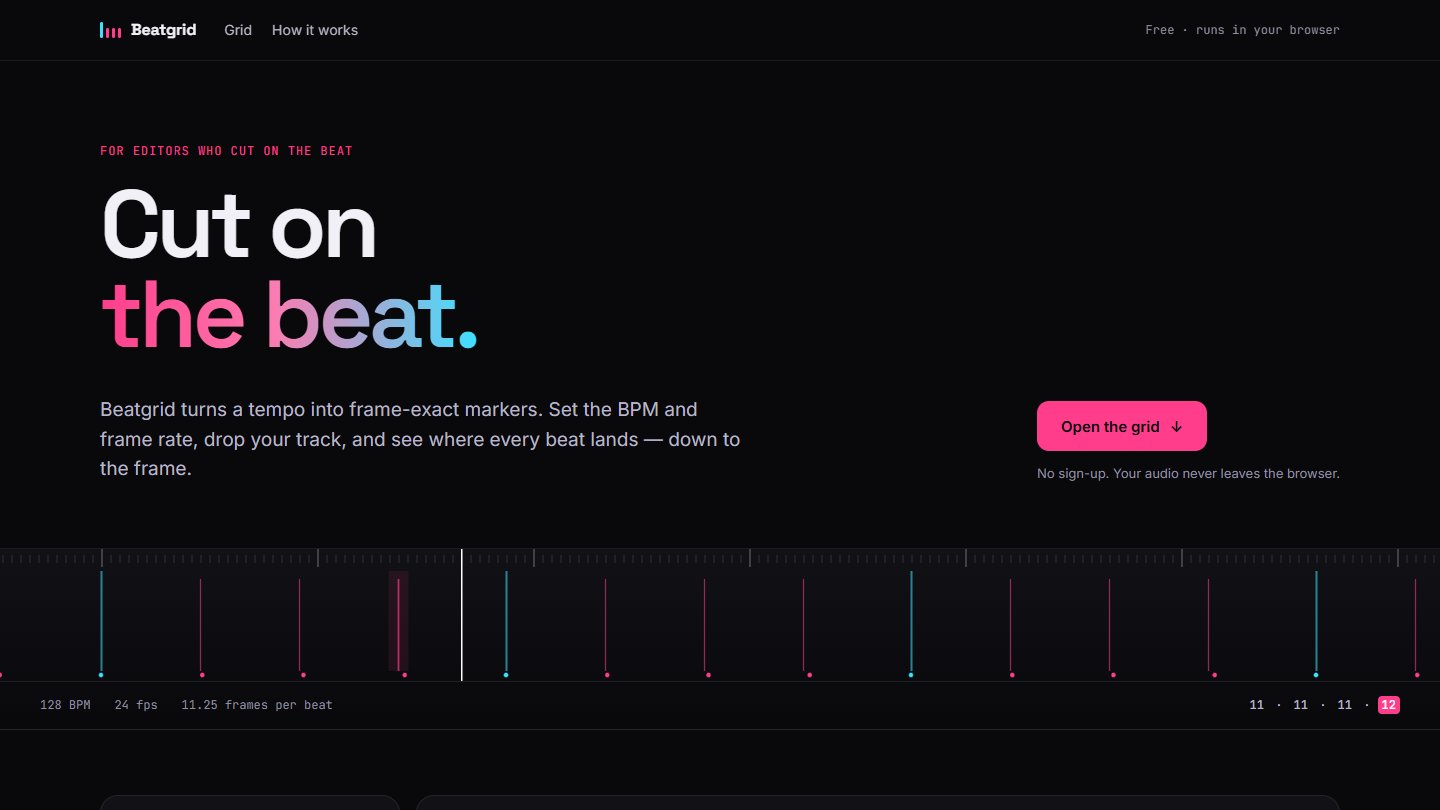
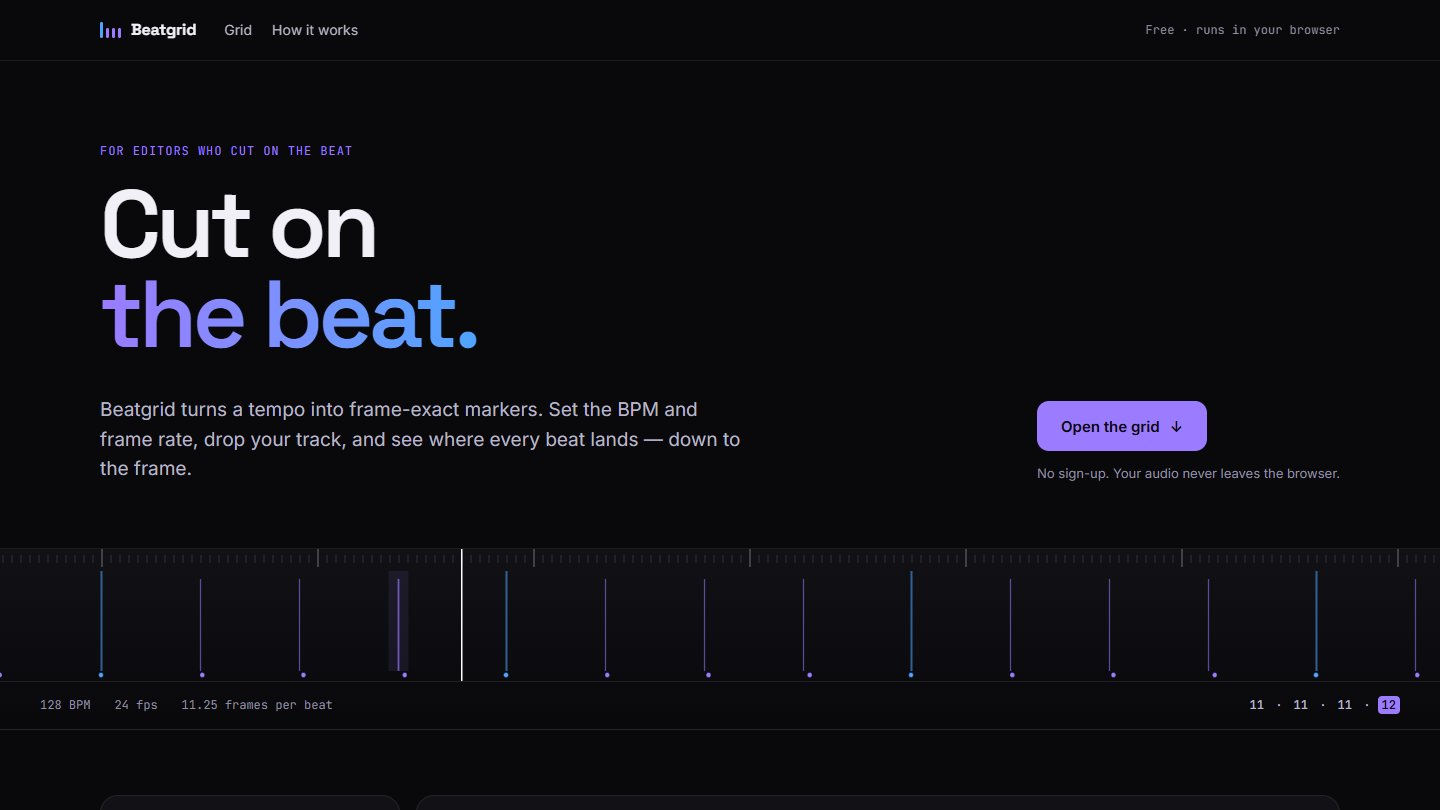
Beatgrid в холодной палитре: пересобран, новые кадры в карточке

diff --git a/public/p/beatgrid/assets/index-CwXp041E.js b/public/p/beatgrid/assets/index-CwXp041E.js
@@ -1,0 +1,10 @@
+(function(){let e=document.createElement(`link`).relList;if(e&&e.supports&&e.supports(`modulepreload`))return;for(let e of document.querySelectorAll(`link[rel="modulepreload"]`))n(e);new MutationObserver(e=>{for(let t of e)if(t.type===`childList`)for(let e of t.addedNodes)e.tagName===`LINK`&&e.rel===`modulepreload`&&n(e)}).observe(document,{childList:!0,subtree:!0});function t(e){let t={};return e.integrity&&(t.integrity=e.integrity),e.referrerPolicy&&(t.referrerPolicy=e.referrerPolicy),t.credentials=e.crossOrigin===`use-credentials`?`include`:e.crossOrigin===`anonymous`?`omit`:`same-origin`,t}function n(e){if(e.ep)return;e.ep=!0;let n=t(e);fetch(e.href,n)}})();var e=1e-9,t=t=>Math.floor(t+e),n=[{id:`23.976`,fps:24e3/1001,base:24},{id:`24`,fps:24,base:24},{id:`25`,fps:25,base:25},{id:`29.97`,fps:3e4/1001,base:30},{id:`30`,fps:30,base:30},{id:`50`,fps:50,base:50},{id:`59.94`,fps:6e4/1001,base:60},{id:`60`,fps:60,base:60}],r=e=>n.find(t=>t.id===e)||n[1];function i({bpm:e,fps:t,step:n,beatsPerBar:r}){let i=t*60/e;return n===`bar`?i*r:n===`half`?i/2:i}function a({bpm:e,fps:n,offset:r,step:a,beatsPerBar:o,total:s}){let c=i({bpm:e,fps:n,step:a,beatsPerBar:o}),l=a===`half`?.5:a===`bar`?o:1,u=[];for(let e=0;;e++){let n=r+e*c;if(n>s||e>2e4)break;let i=e*l,a=Math.floor(i+1e-9);u.push({k:e,exact:n,frame:t(n),off:n-t(n),bar:Math.floor(a/o)+1,beat:a%o+1,half:i-a>.25,down:a%o===0&&i-a<.25})}return u}function o(e,t=64){for(let n=1;n<=t;n++){let t=n*e;if(Math.abs(t-Math.round(t))<1e-6)return n}return null}function s(e){let n=o(e,16);if(!n)return null;let r=[];for(let i=0;i<n;i++)r.push(t((i+1)*e)-t(i*e));return r}function c(e,t){let n=e=>String(e).padStart(2,`0`),r=Math.max(0,e);return`${n(Math.floor(r/(t*3600)))}:${n(Math.floor(r/(t*60))%60)}:${n(Math.floor(r/t)%60)}:${n(r%t)}`}var l=e=>String(Math.round(e*100)/100),u=null,d=()=>u??=new AudioContext;async function f(e){let t=await e.arrayBuffer();return d().decodeAudioData(t)}function p(e,t=4e3){let n=e.getChannelData(0),r=Math.max(1,Math.floor(n.length/t)),i=new Float32Array(t*2);for(let e=0;e<t;e++){let t=0,a=0,o=e*r,s=Math.min(o+r,n.length);for(let e=o;e<s;e+=4){let r=n[e];r<t?t=r:r>a&&(a=r)}i[e*2]=t,i[e*2+1]=a}return i}function m(e){let t=e.sampleRate,n=e.getChannelData(0),r=Math.min(n.length,t*90),i=Math.floor(r/512),a=new Float32Array(i),o=0;for(let e=0;e<i;e++){let t=0;for(let r=e*512;r<(e+1)*512;r++)t+=n[r]*n[r];t=Math.sqrt(t/512),a[e]=Math.max(0,t-o),o=t}let s=512/t,c=0,l=0,u=Math.floor(60/200/s),d=Math.ceil(1/s);for(let e=u;e<=d;e++){let t=0;for(let n=0;n+e<i;n++)t+=a[n]*a[n+e];t/=i-e,t>c&&(c=t,l=e)}let f=e=>{let t=0;for(let n=0;n+e<i;n++)t+=a[n]*a[n+e];return t/(i-e)},p=f(l-1),m=f(l),h=f(l+1),g=(p-h)/(2*(p-2*m+h)||1),_=60/((l+(Number.isFinite(g)?g:0))*s);for(;_<80;)_*=2;for(;_>170;)_/=2;Math.abs(_-Math.round(_))<.35&&(_=Math.round(_));let v=60/_/s,y=0,b=-1;for(let e=0;e<v;e+=.25){let t=0;for(let n=e;n<i;n+=v)t+=a[Math.round(n)]||0;t>b&&(b=t,y=e)}return{bpm:Math.round(_*10)/10,offsetSec:(y+.5)*s}}function h(){let e=null,t=null,n=0,r=0,i=!1,a=()=>i?r+(d().currentTime-n):r;function o(){i&&(r=a(),i=!1,e?.stop(),e=null,clearInterval(t?.timer),t=null)}function s(t,n){let a=d();a.resume(),e=a.createBufferSource(),e.buffer=t,e.connect(a.destination),e.start(0,Math.max(0,n)),e.onended=()=>{e&&(i=!1,r=0)}}function c(e,n){let r=d();r.resume();let i=r.currentTime,a=Math.ceil((n-e.offsetSec)/e.beatSec-1e-9),o=()=>{for(;;){let t=e.offsetSec+a*e.beatSec,o=i+(t-n);if(o>r.currentTime+.12)break;o>=r.currentTime-.01&&g(r,o,a%e.beatsPerBar===0),a++}};o(),t={timer:setInterval(o,25)}}return{get playing(){return i},time:a,seek(e){let t=i;return o(),r=Math.max(0,e),t},play({buffer:e,grid:t}){i||(n=d().currentTime,i=!0,e?s(e,r):c(t,r))},stop:o}}function g(e,t,n){let r=e.createOscillator(),i=e.createGain();r.frequency.value=n?1760:1180,i.gain.setValueAtTime(1e-4,t),i.gain.exponentialRampToValueAtTime(n?.5:.28,t+.002),i.gain.exponentialRampToValueAtTime(1e-4,t+.06),r.connect(i).connect(e.destination),r.start(t),r.stop(t+.08)}var _={bg:`#0E0E12`,wave:`rgba(236,232,255,.16)`,tick:`rgba(236,232,255,.14)`,sec:`rgba(236,232,255,.32)`,label:`rgba(236,232,255,.5)`,beat:`#9B7BFF`,half:`rgba(155,123,255,.35)`,down:`#4FA3FF`,head:`#FFFFFF`};function v(e){let t=e.getContext(`2d`),n=0,r=0,i=1;function a(){i=Math.min(devicePixelRatio||1,2),n=e.clientWidth,r=e.clientHeight,e.width=Math.round(n*i),e.height=Math.round(r*i)}function o(e){n||a(),t.setTransform(i,0,0,i,0,0),t.fillStyle=_.bg,t.fillRect(0,0,n,r);let o=t=>(t-e.viewStart)*e.ppf,s=e.viewStart+n/e.ppf,c=r-8,l=(26+c)/2;if(e.peaks){let r=e.peaks.length/2;t.fillStyle=_.wave;for(let i=0;i<n;i++){let n=(e.viewStart+i/e.ppf)/e.fps,a=Math.floor(n/e.duration*r);if(a<0||a>=r)continue;let o=e.peaks[a*2],s=e.peaks[a*2+1],u=(c-26)/2*.92;t.fillRect(i,l-s*u,1,Math.max(1,(s-o)*u))}}t.font=`10px "JetBrains Mono", ui-monospace, monospace`,t.textBaseline=`top`;let u=Math.max(0,Math.floor(e.viewStart));if(e.ppf>=4){t.fillStyle=_.tick;for(let e=u;e<=s;e++)t.fillRect(Math.round(o(e)),20,1,5)}let d=e.ppf*e.fps<60?Math.ceil(60/(e.ppf*e.fps)):1;for(let n=Math.floor(u/e.fps/d)*d;n*e.fps<=s;n+=d){let r=Math.round(n*e.fps),i=Math.round(o(r));t.fillStyle=_.sec,t.fillRect(i,14,1,11),t.fillStyle=_.label,t.fillText(e.label(r),i+4,6)}for(let n of e.markers){if(n.exact<e.viewStart-2||n.exact>s+2)continue;let r=Math.round(o(n.frame))+.5,i=n.down?_.down:n.half?_.half:_.beat;t.strokeStyle=i,t.lineWidth=n.down?2:1,t.beginPath(),t.moveTo(r,n.down?26:n.half?l-14:36),t.lineTo(r,c),t.stroke(),!n.half&&e.ppf>=3&&(t.fillStyle=i,t.beginPath(),t.arc(o(n.exact),c-4,2,0,Math.PI*2),t.fill()),n.down&&e.ppf*e.stepLen*(e.step===`bar`?1:e.beatsPerBar)>34&&(t.fillStyle=_.down,t.fillText(String(n.bar),r+4,28))}let f=o(e.head);f>=0&&f<=n&&(t.fillStyle=_.head,t.fillRect(Math.round(f),0,1.5,r),t.beginPath(),t.moveTo(f-5,0),t.lineTo(f+6,0),t.lineTo(f+.5,7),t.fill())}return{draw:o,resize:a,width:()=>n||e.clientWidth}}var y=24,b=128,x=4,S=1440/b,C=9;function w(e){let t=document.querySelector(`[data-ruler]`),n=[...document.querySelectorAll(`[data-pat] b`)];if(!t)return;let r=t.getContext(`2d`),i=0,a=0,o=1,s=()=>{o=Math.min(devicePixelRatio||1,2),i=t.clientWidth,a=t.clientHeight,t.width=i*o,t.height=a*o};s(),addEventListener(`resize`,()=>{s(),e&&c(40)});let c=e=>{r.setTransform(o,0,0,o,0,0),r.clearRect(0,0,i,a);let t=Math.round(i*.32),s=e-t/C,c=e+(i-t)/C,l=n=>t+(n-e)*C;for(let e=Math.ceil(s);e<=c;e++){let t=Math.round(l(e))+.5,n=e%y===0;r.fillStyle=n?`rgba(242,240,247,.42)`:`rgba(242,240,247,.14)`,r.fillRect(t,n?0:6,1,n?18:8)}let u=Math.floor(s/S),d=Math.ceil(c/S);for(let t=u;t<=d;t++){let n=t*S,i=Math.floor(n+1e-9),o=Math.round(l(i))+.5,s=(t%x+x)%x===0,c=(e-n)/y,u=c>=0&&c<.35?1-c/.35:0;r.strokeStyle=s?`#4FA3FF`:`#9B7BFF`,r.globalAlpha=.55+.45*u,r.lineWidth=(s?2:1.25)+u*2,r.beginPath(),r.moveTo(o,s?22:30),r.lineTo(o,a-10),r.stroke(),u&&(r.globalAlpha=u*.35,r.fillStyle=s?`#4FA3FF`:`#9B7BFF`,r.fillRect(o-10,22,20,a-32)),r.globalAlpha=1,r.fillStyle=s?`#4FA3FF`:`#9B7BFF`,r.beginPath(),r.arc(l(n),a-6,2.2,0,Math.PI*2),r.fill()}r.fillStyle=`#fff`,r.fillRect(t,0,1.5,a);let f=Math.floor(e/S);n.forEach((e,t)=>e.classList.toggle(`is-on`,t===(f%4+4)%4))};if(e){c(40);return}let l=!0,u=0,d=0,f=e=>{u||=e,c((e-u)/1e3*y+6),l&&(d=requestAnimationFrame(f))};new IntersectionObserver(([e])=>{l=e.isIntersecting,cancelAnimationFrame(d),l&&(d=requestAnimationFrame(f))}).observe(t)}var T=matchMedia(`(prefers-reduced-motion: reduce)`).matches;w(T);var E=e=>document.querySelector(e),D=E(`[data-controls]`),O=v(E(`[data-timeline]`)),k=h(),A={bpm:128,rateId:`24`,step:`beat`,bpb:4,offset:0,buffer:null,peaks:null,duration:0,name:``,viewStart:0,ppf:6,head:0,showAll:!1};function j(){let e=r(A.rateId),t=i({bpm:A.bpm,fps:e.fps,step:`beat`,beatsPerBar:A.bpb}),n=i({bpm:A.bpm,fps:e.fps,step:A.step,beatsPerBar:A.bpb}),o=A.buffer?A.duration*e.fps:A.offset+t*A.bpb*64;return{r:e,beatLen:t,stepLen:n,total:o,list:a({bpm:A.bpm,fps:e.fps,offset:A.offset,step:A.step,beatsPerBar:A.bpb,total:o})}}function M(){let e=j();N(e),F(e),I(e)}function N({beatLen:e}){let t=(e,t)=>{E(`[data-f="${e}"]`).textContent=t};t(`beat`,l(e)),t(`bar`,l(e*A.bpb));let n=o(e);t(`period`,n===1?`every beat`:n?`every ${n} beats`:`never exactly`);let r=s(e);t(`pattern`,r&&r.length>1?r.join(` · `):r?`${r[0]} every time`:`varies — see the list`)}var P=64;function F({r:e,list:t}){let n=A.showAll?t:t.slice(0,P);E(`[data-rows]`).innerHTML=n.map(t=>`
+    <tr class="${t.down?`is-down`:t.half?`is-half`:``}">
+      <td>${t.k+1}</td>
+      <td>${t.bar}.${t.beat}${t.half?`½`:``}</td>
+      <td>${t.frame}</td>
+      <td>${c(t.frame,e.base)}</td>
+      <td class="${t.off>.001?`is-off`:``}">${t.off>.001?`+`+l(t.off)+` f`:`on frame`}</td>
+    </tr>`).join(``);let r=E(`[data-more]`);r.hidden=t.length<=P,r.textContent=A.showAll?`Show fewer`:`Show all ${t.length} markers`}function I(e=j()){let t=O.width()/A.ppf;A.viewStart=Math.max(0,Math.min(A.viewStart,Math.max(0,e.total-t))),O.draw({viewStart:A.viewStart,ppf:A.ppf,fps:e.r.fps,markers:e.list,head:A.head,stepLen:e.stepLen,step:A.step,beatsPerBar:A.bpb,peaks:A.peaks,duration:A.duration,label:t=>c(t,e.r.base)}),E(`[data-tc]`).textContent=c(Math.floor(A.head),e.r.base);let n=E(`[data-scroll]`),r=e.total-t;n.disabled=r<=0,n.value=r>0?Math.round(A.viewStart/r*1e3):0}var L=E(`[data-fps]`);L.innerHTML=n.map(e=>`<option value="${e.id}">${e.id} fps</option>`).join(``),L.value=A.rateId,D.addEventListener(`input`,e=>{let t=e.target;if(t.name===`bpm`){let e=parseFloat(t.value);e>=40&&e<=300&&(A.bpm=e)}if(t.name===`fps`){let e=r(A.rateId).fps;A.rateId=t.value,R(e)}if(t.name===`step`&&(A.step=t.value),t.name===`bpb`&&(A.bpb=Number(t.value)),t.name===`offset`){let e=parseFloat(t.value);e>=0&&(A.offset=e)}M()});function R(e){let t=r(A.rateId).fps/e;A.offset=Math.round(A.offset*t*100)/100,A.head*=t,A.viewStart*=t,E(`#offset`).value=A.offset}var z=e=>{A.bpm=Math.min(300,Math.max(40,Math.round(e*10)/10)),E(`#bpm`).value=A.bpm,M()};document.querySelectorAll(`[data-nudge]`).forEach(e=>e.addEventListener(`click`,t=>{z(A.bpm+Number(e.dataset.nudge)*(t.shiftKey?.1:1))}));var B=[];function V(){let e=performance.now();B.length&&e-B[B.length-1]>2e3&&(B=[]),B.push(e),B=B.slice(-9);let t=E(`[data-tap]`);t.classList.remove(`is-hit`),t.offsetWidth,t.classList.add(`is-hit`),B.length<2?E(`[data-tap-hint]`).textContent=`Keep tapping…`:(z(6e4/((B[B.length-1]-B[0])/(B.length-1))),E(`[data-tap-hint]`).textContent=`${B.length} taps · ${l(A.bpm)} BPM`)}E(`[data-tap]`).addEventListener(`click`,V),E(`[data-use-head]`).addEventListener(`click`,()=>{A.offset=Math.round(A.head*100)/100,E(`#offset`).value=A.offset,M()}),E(`[data-more]`).addEventListener(`click`,()=>{A.showAll=!A.showAll,M()});var H=E(`[data-drop]`),U=E(`[data-file]`);[`dragenter`,`dragover`].forEach(e=>H.addEventListener(e,e=>{e.preventDefault(),H.classList.add(`is-over`)})),[`dragleave`,`drop`].forEach(e=>H.addEventListener(e,()=>H.classList.remove(`is-over`))),H.addEventListener(`drop`,e=>{e.preventDefault();let t=e.dataTransfer.files[0];t&&W(t)}),U.addEventListener(`change`,()=>{U.files[0]&&W(U.files[0])});async function W(e){J(),E(`[data-drop-t]`).textContent=`Decoding…`;try{let t=await f(e);Object.assign(A,{buffer:t,peaks:p(t),duration:t.duration,name:e.name,head:0,viewStart:0}),k.seek(0),E(`[data-drop-t]`).textContent=e.name,E(`[data-drop-s]`).textContent=`${Math.floor(t.duration/60)}:${String(Math.floor(t.duration%60)).padStart(2,`0`)} · drop another to replace`,E(`[data-track]`).hidden=!1,E(`[data-src]`).textContent=`Track`,E(`[data-estimate-hint]`).textContent=`An estimate — check it by ear.`,M()}catch{E(`[data-drop-t]`).textContent=`Could not read this file`,E(`[data-drop-s]`).textContent=`Try mp3 or wav`}}E(`[data-estimate]`).addEventListener(`click`,()=>{if(!A.buffer)return;let{bpm:e,offsetSec:t}=m(A.buffer);z(e),A.offset=Math.round(t*r(A.rateId).fps*100)/100,E(`#offset`).value=A.offset,E(`[data-estimate-hint]`).textContent=`Looks like ${l(e)} BPM, first beat at frame ${l(A.offset)}. Check it by ear.`,M()}),E(`[data-remove]`).addEventListener(`click`,()=>{J(),Object.assign(A,{buffer:null,peaks:null,duration:0,name:``,head:0,viewStart:0}),k.seek(0),E(`[data-track]`).hidden=!0,E(`[data-drop-t]`).innerHTML=`Drop a track or <u>choose a file</u>`,E(`[data-drop-s]`).textContent=`mp3, wav, m4a — decoded locally`,E(`[data-src]`).textContent=`Metronome`,M()});var G=E(`[data-play]`),K=0;function q(){let e=r(A.rateId);k.seek(A.head/e.fps),k.play({buffer:A.buffer,grid:{offsetSec:A.offset/e.fps,beatSec:60/A.bpm,beatsPerBar:A.bpb}}),G.classList.add(`is-on`),G.setAttribute(`aria-label`,`Pause`);let t=()=>{let e=j();A.head=k.time()*e.r.fps;let n=O.width()/A.ppf;A.head>A.viewStart+n*.85&&(A.viewStart=A.head-n*.15),(A.head>=e.total||!k.playing)&&(J(),A.head=Math.min(A.head,e.total)),I(e),k.playing&&(K=requestAnimationFrame(t))};K=requestAnimationFrame(t)}function J(){k.stop(),cancelAnimationFrame(K),G.classList.remove(`is-on`),G.setAttribute(`aria-label`,`Play`)}G.addEventListener(`click`,()=>k.playing?J():q()),addEventListener(`keydown`,e=>{e.target.closest(`input, select, textarea`)||(e.code===`Space`&&(e.preventDefault(),k.playing?J():q()),e.code===`KeyT`&&!e.repeat&&V())});var Y=E(`[data-timeline]`),X=null;Y.addEventListener(`pointerdown`,e=>{X={x:e.clientX,start:A.viewStart,moved:!1},Y.setPointerCapture(e.pointerId)}),Y.addEventListener(`pointermove`,e=>{if(!X)return;let t=e.clientX-X.x;Math.abs(t)>3&&(X.moved=!0),X.moved&&(A.viewStart=X.start-t/A.ppf,I())}),Y.addEventListener(`pointerup`,e=>{if(X&&!X.moved){let t=k.playing;J(),A.head=Math.max(0,A.viewStart+(e.clientX-Y.getBoundingClientRect().left)/A.ppf),I(),t&&q()}X=null}),Y.addEventListener(`wheel`,e=>{if(e.ctrlKey||e.metaKey){e.preventDefault();let t=e.clientX-Y.getBoundingClientRect().left;Z(A.ppf*(e.deltaY<0?1.15:1/1.15),t)}else Math.abs(e.deltaX)>Math.abs(e.deltaY)&&(e.preventDefault(),A.viewStart+=e.deltaX/A.ppf,I())},{passive:!1});function Z(e,t){let n=A.viewStart+t/A.ppf;A.ppf=Math.min(16,Math.max(1,e)),A.viewStart=n-t/A.ppf,E(`[data-zoom]`).value=A.ppf,I()}E(`[data-zoom]`).addEventListener(`input`,e=>Z(Number(e.target.value),O.width()/2)),E(`[data-scroll]`).addEventListener(`input`,e=>{let t=j();A.viewStart=Number(e.target.value)/1e3*Math.max(0,t.total-O.width()/A.ppf),I(t)}),addEventListener(`resize`,()=>{O.resize(),I()}),E(`[data-copy]`).addEventListener(`click`,async e=>{let{r:t,list:n}=j(),r=n.map(e=>`${e.bar}.${e.beat}${e.half?`½`:``}\t${c(e.frame,t.base)}`).join(`
+`);try{await navigator.clipboard.writeText(r),Q(e.currentTarget,`Copied`)}catch{Q(e.currentTarget,`Clipboard blocked`)}}),E(`[data-csv]`).addEventListener(`click`,()=>{let{r:e,list:t}=j(),n=t.map(t=>[t.k+1,t.bar,t.beat,+!!t.half,t.frame,c(t.frame,e.base),t.exact.toFixed(3),(t.exact/e.fps).toFixed(4)].join(`,`)),r=new Blob([[`index,bar,beat,half,frame,timecode,exact_frame,seconds`,...n].join(`
+`)],{type:`text/csv`}),i=document.createElement(`a`);i.href=URL.createObjectURL(r),i.download=`beatgrid-${l(A.bpm)}bpm-${A.rateId}fps.csv`,i.click(),URL.revokeObjectURL(i.href)});function Q(e,t){let n=e.textContent;e.textContent=t,setTimeout(()=>{e.textContent=n},1400)}M();

diff --git a/public/p/beatgrid/assets/index-CsR1Rtmq.css b/public/p/beatgrid/assets/index-CsR1Rtmq.css
@@ -1,0 +1,1 @@
+:root{--bg:#09090c;--panel:#111116;--panel-2:#17171d;--line:#ffffff14;--line-2:#ffffff24;--ink:#f2f0f7;--ink-2:#b9b6c6;--mute:#918ea0;--beat:#9b7bff;--down:#4fa3ff;--ease:cubic-bezier(.16,1,.3,1);--display:"Space Grotesk",system-ui,sans-serif;--sans:"Inter",system-ui,sans-serif;--mono:"JetBrains Mono",ui-monospace,monospace;--gutter:clamp(16px,4vw,40px)}*{box-sizing:border-box;margin:0;padding:0}[hidden]{display:none!important}html{scroll-behavior:smooth}body{background:var(--bg);color:var(--ink);font-family:var(--sans);-webkit-font-smoothing:antialiased;font-size:15px;line-height:1.55;overflow-x:clip}a{color:inherit;text-decoration:none}button,input,select{font:inherit;color:inherit}:focus-visible{outline:2px solid var(--down);outline-offset:2px;border-radius:6px}::selection{background:var(--beat);color:#fff}.wrap{width:min(1240px,100% - 2*var(--gutter));margin-inline:auto}.top{z-index:20;background:color-mix(in srgb,var(--bg) 94%,transparent);-webkit-backdrop-filter:blur(12px);border-bottom:1px solid var(--line);position:sticky;top:0}.top__in{align-items:center;gap:28px;height:60px;display:flex}.logo{font-family:var(--display);letter-spacing:-.01em;align-items:center;gap:10px;font-size:16px;font-weight:700;display:inline-flex}.logo__mark{align-items:flex-end;gap:3px;height:16px;display:inline-flex}.logo__mark i{background:var(--beat);border-radius:2px;width:3px;height:10px}.logo__mark i:first-child{background:var(--down);height:16px}.top__nav{color:var(--ink-2);gap:20px;font-size:14px;display:flex}.top__nav a:hover{color:var(--ink)}.top__note{font-family:var(--mono);color:var(--mute);margin-left:auto;font-size:12px}.hero{padding:clamp(64px,10vh,110px) 0 0;overflow:hidden}.eyebrow{font-family:var(--mono);letter-spacing:.08em;text-transform:uppercase;color:var(--beat);font-size:12px}.hero__title{font-family:var(--display);letter-spacing:-.05em;margin-top:18px;font-size:clamp(48px,6.6vw,100px);font-weight:600;line-height:.95}.hero__title span{background:linear-gradient(90deg,var(--beat),#7f8fff 45%,var(--down));color:#0000;-webkit-background-clip:text;background-clip:text}.hero__row{flex-wrap:wrap;justify-content:space-between;align-items:flex-end;gap:28px;margin-top:36px;display:flex}.hero__lead{max-width:34em;color:var(--ink-2);font-size:clamp(16px,1.4vw,19px)}.hero__cta{flex-direction:column;align-items:flex-start;gap:12px;display:flex}.hero__fine{color:var(--mute);font-size:13px}.btn{height:50px;transition:transform .4s var(--ease),box-shadow .4s var(--ease);border-radius:12px;align-items:center;gap:10px;padding:0 24px;font-size:15px;font-weight:600;display:inline-flex}.btn--hot{background:var(--beat);color:#0b0610}.btn--hot:hover{transform:translateY(-2px)}.ruler{border-block:1px solid var(--line);background:linear-gradient(180deg,var(--panel),var(--bg));margin-top:clamp(56px,8vh,88px);position:relative}.ruler canvas{width:100%;height:132px;display:block}.ruler__meta{padding:14px var(--gutter);border-top:1px solid var(--line);font-family:var(--mono);color:var(--mute);flex-wrap:wrap;gap:8px 24px;font-size:12px;display:flex}.ruler__pat{color:var(--ink-2);margin-left:auto}.ruler__pat b{border-radius:4px;padding:1px 4px;font-weight:500;transition:background .15s,color .15s}.ruler__pat b.is-on{background:var(--beat);color:#0b0610}.app{padding:clamp(56px,8vh,96px) 0}.app__in{grid-template-columns:300px minmax(0,1fr);align-items:start;gap:16px;display:grid}.panel{background:var(--panel);border:1px solid var(--line);border-radius:18px}.panel__h{font-family:var(--display);letter-spacing:.02em;font-size:14px;font-weight:500}.panel__h--gap{margin-top:28px}.ctl{padding:22px;position:sticky;top:76px}.field{border:0;margin-top:18px}.field label,.field legend{color:var(--mute);margin-bottom:8px;font-size:12px;display:block}input[type=number],select{background:var(--panel-2);border:1px solid var(--line-2);width:100%;height:42px;font-family:var(--mono);border-radius:10px;padding:0 12px;font-size:14px}select{appearance:none;background-image:linear-gradient(45deg,transparent 50%,var(--mute) 50%),linear-gradient(135deg,var(--mute) 50%,transparent 50%);background-position:calc(100% - 18px) 18px,calc(100% - 13px) 18px;background-repeat:no-repeat;background-size:5px 5px}.bpm{grid-template-columns:42px 1fr 42px;gap:6px;display:grid}.bpm input{text-align:center;height:52px;font-size:20px;font-weight:500}.nudge{background:var(--panel-2);border:1px solid var(--line-2);cursor:pointer;border-radius:10px;height:52px;font-size:20px}.nudge:hover{border-color:var(--ink-2)}.tap{cursor:pointer;border:1px dashed color-mix(in srgb,var(--beat) 60%,transparent);width:100%;height:46px;color:var(--beat);background:0 0;border-radius:10px;margin-top:8px;font-weight:600}.tap kbd{font-family:var(--mono);opacity:.95;border:1px solid;border-radius:4px;margin-left:6px;padding:1px 6px;font-size:11px}.tap.is-hit{animation:hit .25s var(--ease)}@keyframes hit{0%{background:color-mix(in srgb,var(--beat) 35%,transparent)}to{background:0 0}}.hint{color:var(--mute);margin-top:8px;font-size:12px}.seg{background:var(--panel-2);border:1px solid var(--line-2);border-radius:10px;grid-auto-columns:1fr;grid-auto-flow:column;padding:3px;display:grid}.seg input{opacity:0;pointer-events:none;position:absolute}.seg label{text-align:center;color:var(--ink-2);cursor:pointer;border-radius:7px;margin:0;padding:8px 0;font-size:13px;transition:background .2s,color .2s}.seg input:checked+label{background:var(--ink);color:var(--bg)}.seg input:focus-visible+label{outline:2px solid var(--down)}.row{grid-template-columns:1fr auto;gap:6px;display:grid}.ghost{border:1px solid var(--line-2);cursor:pointer;white-space:nowrap;background:0 0;border-radius:10px;height:42px;padding:0 14px;font-size:13px}.ghost:hover{border-color:var(--ink-2)}.drop{border:1px dashed var(--line-2);cursor:pointer;border-radius:12px;flex-direction:column;gap:4px;margin-top:12px;padding:18px;transition:border-color .2s,background .2s;display:flex}.drop:hover,.drop.is-over{border-color:var(--down);background:color-mix(in srgb,var(--down) 6%,transparent)}.drop__t{word-break:break-word;font-size:14px}.drop__s{color:var(--mute);font-size:12px}.track{flex-wrap:wrap;gap:6px;margin-top:10px;display:flex}.track .hint{flex-basis:100%}.out{min-width:0;padding:22px}.facts{background:var(--line);border-radius:12px;grid-template-columns:repeat(4,minmax(0,1fr));gap:1px;display:grid;overflow:hidden}.facts div{background:var(--panel-2);padding:14px 16px}.facts dt{color:var(--mute);font-size:12px}.facts dd{font-family:var(--mono);white-space:nowrap;letter-spacing:-.02em;margin-top:4px;font-size:clamp(14px,1.3vw,18px);font-weight:500}.transport{align-items:center;gap:16px;margin-top:18px;display:flex}.play{background:var(--ink);cursor:pointer;border:0;border-radius:50%;flex:none;place-items:center;width:44px;height:44px;display:grid}.play__i{border-left:13px solid var(--bg);border-block:8px solid #0000;width:0;height:0;margin-left:3px}.play.is-on .play__i{border:0;border-inline:4px solid var(--bg);width:12px;height:14px;margin:0}.tc{font-family:var(--mono);letter-spacing:.02em;font-variant-numeric:tabular-nums;font-size:22px}.transport__src{font-family:var(--mono);letter-spacing:.06em;text-transform:uppercase;color:var(--mute);border:1px solid var(--line-2);border-radius:6px;padding:3px 8px;font-size:11px}.zoom{color:var(--mute);align-items:center;gap:10px;margin-left:auto;font-size:12px;display:flex}.zoom input{width:120px;accent-color:var(--down)}.tl{border:1px solid var(--line);border-radius:12px;margin-top:14px;overflow:hidden}.tl__canvas{cursor:crosshair;touch-action:pan-y;width:100%;height:190px;display:block}.tl__scroll{width:100%;accent-color:var(--beat);background:var(--panel-2);height:18px;margin:0;display:block}.legend{color:var(--mute);flex-wrap:wrap;gap:6px 18px;margin-top:10px;font-size:12px;display:flex}.legend span{align-items:center;gap:7px;display:inline-flex}.legend__tip{margin-left:auto}.lg{width:2px;height:12px;display:inline-block}.lg--down{background:var(--down)}.lg--beat{background:var(--beat)}.lg--dot{background:var(--beat);border-radius:50%;width:5px;height:5px}.list{margin-top:26px}.list__head{flex-wrap:wrap;justify-content:space-between;align-items:center;gap:10px;display:flex}.list__btns{gap:6px;display:flex}.table-wrap{border:1px solid var(--line);border-radius:12px;max-height:420px;margin-top:12px;overflow:auto}table{border-collapse:collapse;width:100%;font-family:var(--mono);font-size:13px}th{background:var(--panel-2);text-align:left;color:var(--mute);letter-spacing:.06em;text-transform:uppercase;padding:10px 14px;font-size:11px;font-weight:500;position:sticky;top:0}td{border-top:1px solid var(--line);color:var(--ink-2);white-space:nowrap;padding:8px 14px}tr.is-down td{color:var(--ink)}tr.is-down td:nth-child(2){color:var(--down)}tr.is-half td{color:var(--mute)}td.is-off{color:var(--beat)}.more{color:var(--down);cursor:pointer;background:0 0;border:0;margin-top:10px;font-size:13px}.how{border-top:1px solid var(--line);padding:clamp(80px,12vh,140px) 0}.how__title{font-family:var(--display);letter-spacing:-.045em;font-size:clamp(32px,4vw,54px);font-weight:600;line-height:1}.how__grid{grid-template-columns:repeat(3,minmax(0,1fr));gap:16px;margin-top:48px;display:grid}.how article{border:1px solid var(--line);background:var(--panel);border-radius:18px;padding:24px}.how__n{font-family:var(--mono);color:var(--beat);font-size:12px}.how h3{margin-top:14px;font-size:18px;font-weight:600}.how p{color:var(--ink-2);margin-top:8px}.foot{border-top:1px solid var(--line);color:var(--mute);padding:24px 0;font-size:13px}.foot__in{flex-wrap:wrap;justify-content:space-between;gap:16px;display:flex}.foot a:hover{color:var(--ink)}@media (width<=980px){.app__in{grid-template-columns:1fr}.ctl{position:static}.facts{grid-template-columns:1fr 1fr}.how__grid{grid-template-columns:1fr}}@media (width<=620px){.top__nav,.top__note{display:none}.transport{flex-wrap:wrap}.zoom{width:100%;margin-left:0}.zoom input{flex:1}.legend__tip,.ruler__pat{margin-left:0}}@media (prefers-reduced-motion:reduce){*{transition:none!important;animation:none!important}html{scroll-behavior:auto}}.foot a{margin:-10px 0;padding:10px 0;display:inline-block}@media (pointer:coarse){input[type=range]{height:32px}.more{min-height:40px}}.foot__links{flex-wrap:wrap;gap:20px;display:flex}

diff --git a/public/p/beatgrid/index.html b/public/p/beatgrid/index.html
@@ -12,8 +12,8 @@
   <link rel="preconnect" href="https://fonts.googleapis.com">
   <link rel="preconnect" href="https://fonts.gstatic.com" crossorigin>
   <link href="https://fonts.googleapis.com/css2?family=Inter:wght@400;500;600&family=JetBrains+Mono:wght@400;500&family=Space+Grotesk:wght@500;600;700&display=swap" rel="stylesheet">
-  <script type="module" crossorigin src="/p/beatgrid/assets/index-CpPck4gX.js"></script>
-  <link rel="stylesheet" crossorigin href="/p/beatgrid/assets/index-CnY3ylmU.css">
+  <script type="module" crossorigin src="/p/beatgrid/assets/index-CwXp041E.js"></script>
+  <link rel="stylesheet" crossorigin href="/p/beatgrid/assets/index-CsR1Rtmq.css">
 </head>
 <body>
 

diff --git a/index.html b/index.html
@@ -246,7 +246,7 @@
         <article class="render" data-up>
           <div class="render__frame xfade" data-alt-frame data-a="Landing" data-b="App">
             <img class="is-on" src="/work/beatgrid-hero.jpg" alt="Beatgrid landing page" width="1440" height="810" loading="lazy" decoding="async">
-            <img src="/work/beatgrid-app.webp" alt="" width="1440" height="810" loading="lazy" decoding="async">
+            <img src="/work/beatgrid-app.jpg" alt="" width="1440" height="810" loading="lazy" decoding="async">
           </div>
           <div class="render__body">
             <p class="render__meta"><span>05</span><span>Personal project</span><span>Web app</span></p>
